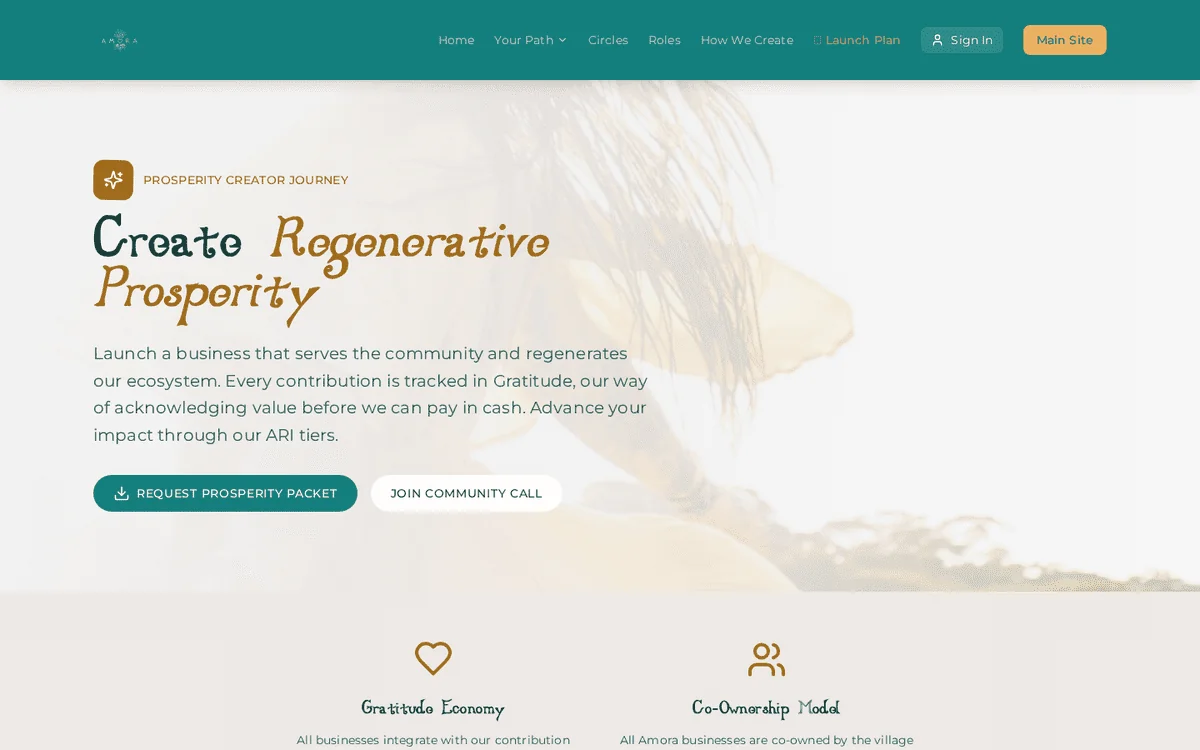
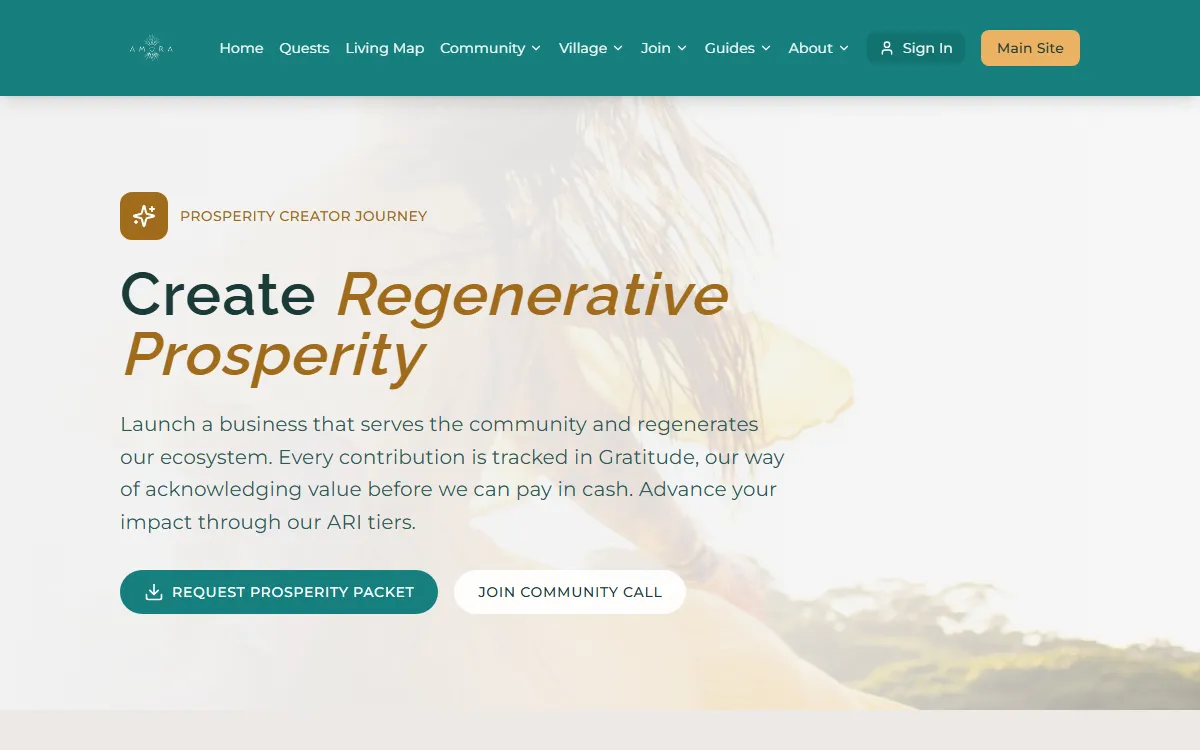
feat(custom-games): fresh live Amora screenshots, add map and profile
The live-proof section on /custom-games was showing captures from an
older build of amora.regencivics.earth: the nav has since changed from
Home / Your Path / Circles / Roles to Home / Quests / Living Map /
Community / Village / Join / Guides / About, and the Work With Us shot
had never landed at all, so that tile rendered the gradient placeholder.
A prospect looking at the page was reading proof that no longer matched
the running game.

Recaptured every referenced shot live at exactly 1200x750, the 16:10 the
AmoraShot component crops to, so the file is what renders instead of a
tall full-page capture the browser squeezes. Two new tiles: the living
map at /map, and the member sign-in door that fronts /profile.

The quest board is framed at the cards rather than the hero, so the tile
shows fourteen real quests with their Gratitude ranges instead of a
headline. The Setup Wizard shot is unchanged: that screen is behind the
admin login at /admin, and a login box under that caption would be worse
proof than the capture already there.

diff --git a/client/src/pages/CustomGames.tsx b/client/src/pages/CustomGames.tsx
@@ -181,6 +181,11 @@ const AMORA_SHOTS: { name: string; caption: string; wide?: boolean }[] = [
     wide: true,
   },
   {
+    name: "amora-map-desktop",
+    caption:
+      "The living map, where every building on it traces back to a funded build or a claimed quest",
+  },
+  {
     name: "amora-quests-desktop",
     caption: "The quest board, where the work of the village becomes visible",
   },
@@ -195,6 +200,11 @@ const AMORA_SHOTS: { name: string; caption: string; wide?: boolean }[] = [
   {
     name: "amora-setup-wizard-desktop",
     caption: "The Setup Wizard, where admins reshape the game themselves",
+  },
+  {
+    name: "amora-profile-desktop",
+    caption:
+      "Members sign in here to reach their own profile, quests, and gratitude",
   },
 ];
 
